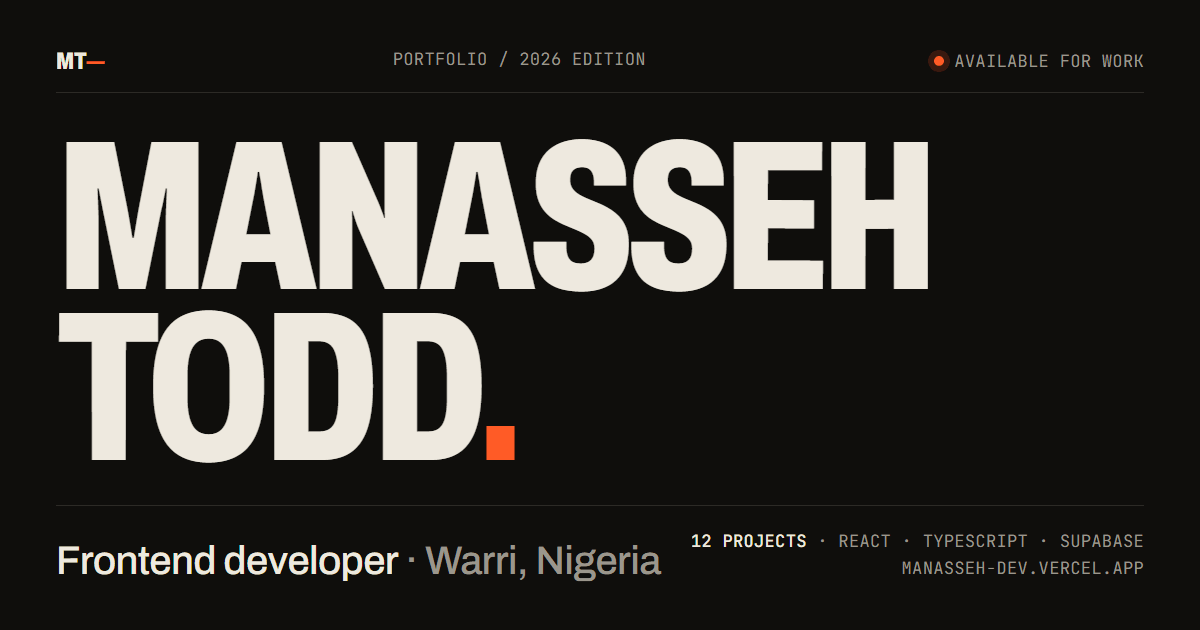
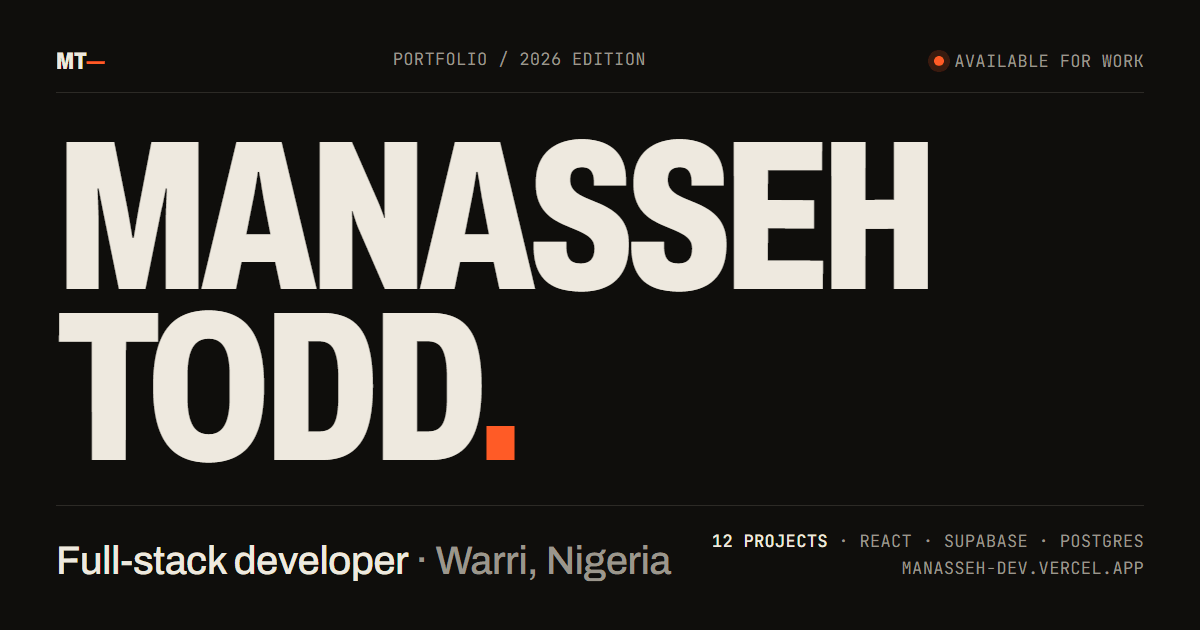
feat: present Manasseh as a full-stack developer
Update the role across page title, meta/OG/Twitter tags, JSON-LD,
hero, About copy and the share image. The hero role label now shows on
mobile too. Past job titles are left as they were held.

Changed region(s): [[0.0617, 0.8444, 0.555, 0.9349], [0.5858, 0.8444, 0.9558, 0.8746]]

diff --git a/index.html b/index.html
@@ -3,8 +3,8 @@
   <head>
     <meta charset="UTF-8" />
     <meta name="viewport" content="width=device-width, initial-scale=1.0" />
-    <title>Manasseh Todd — Frontend Developer, Warri</title>
-    <meta name="description" content="Manasseh Todd is a frontend developer in Warri, Nigeria, building fast, considered websites and web apps with React, TypeScript and Supabase for brands, schools and small businesses." />
+    <title>Manasseh Todd — Full-Stack Developer, Warri</title>
+    <meta name="description" content="Manasseh Todd is a full-stack developer in Warri, Nigeria, building fast, considered websites and web apps with React, TypeScript, Supabase and Postgres for brands, schools and small businesses." />
     <meta name="google-site-verification" content="RRzsAudzfnIZFPQt-_vPojlM1CC2DDcMOwhQgeqvTNI" />
     <meta name="theme-color" content="#0f0e0c" />
     <link rel="icon" type="image/svg+xml" href="/favicon.svg" />
@@ -12,14 +12,14 @@
 
     <meta property="og:type" content="website" />
     <meta property="og:url" content="https://manasseh-dev.vercel.app/" />
-    <meta property="og:title" content="Manasseh Todd — Frontend Developer" />
+    <meta property="og:title" content="Manasseh Todd — Full-Stack Developer" />
     <meta property="og:description" content="An index of selected work: live stores, client sites and full-stack builds, 2025–2026." />
     <meta property="og:image" content="https://manasseh-dev.vercel.app/og-image.png" />
     <meta property="og:image:width" content="1200" />
     <meta property="og:image:height" content="630" />
-    <meta property="og:image:alt" content="Manasseh Todd — Frontend developer in Warri, Nigeria" />
+    <meta property="og:image:alt" content="Manasseh Todd — Full-stack developer in Warri, Nigeria" />
     <meta name="twitter:card" content="summary_large_image" />
-    <meta name="twitter:title" content="Manasseh Todd — Frontend Developer" />
+    <meta name="twitter:title" content="Manasseh Todd — Full-Stack Developer" />
     <meta name="twitter:image" content="https://manasseh-dev.vercel.app/og-image.png" />
 
     <link rel="preconnect" href="https://fonts.googleapis.com" />
@@ -36,7 +36,7 @@
         "@type": "Person",
         "name": "Manasseh Todd",
         "url": "https://manasseh-dev.vercel.app",
-        "jobTitle": "Frontend Developer",
+        "jobTitle": "Full-Stack Developer",
         "address": { "@type": "PostalAddress", "addressLocality": "Warri", "addressCountry": "NG" },
         "sameAs": [
           "https://github.com/manassehtodd",
@@ -49,7 +49,7 @@
     <div id="root"></div>
     <noscript>
       <p style="padding:24px;font-family:sans-serif;color:#eee9df;background:#0f0e0c">
-        Manasseh Todd — frontend developer in Warri, Nigeria. Email
+        Manasseh Todd — full-stack developer in Warri, Nigeria. Email
         <a style="color:#ff5b26" href="mailto:manassehtodd1@gmail.com">manassehtodd1@gmail.com</a>.
       </p>
     </noscript>

diff --git a/src/components/About.jsx b/src/components/About.jsx
@@ -25,16 +25,18 @@ export default function About() {
 
         <div className="about__copy">
           <p className="about__lead">
-            I'm Manasseh, a frontend developer who cares about the parts people actually touch:
-            how fast a page appears, how a button feels and whether checkout works on a cheap
-            Android phone.
+            I'm Manasseh, a full-stack developer who builds the whole thing, but still obsesses
+            over the parts people touch: how fast a page appears, how a button feels and whether
+            checkout works on a cheap Android phone.
           </p>
           <div className="about__body">
             <p>
-              I started with landing pages in 2025. Today I ship live stores, school platforms
-              and sites that clients edit themselves, for businesses across Warri and Port
-              Harcourt. I'm studying software engineering at NIIT, and my work keeps reaching
-              further back: Supabase and Postgres, payments with Paystack, server-side Java.
+              I started with landing pages in 2025. Today I build complete products, covering
+              interface, database, sign-in, payments and admin tools, for businesses across Warri
+              and Port Harcourt: live stores, school platforms and sites that clients run
+              themselves. I work with React and TypeScript on the front, Supabase and Postgres
+              behind it, Paystack and KoraPay for payments, and server-side Java. I'm also
+              studying software engineering at NIIT.
             </p>
             <p>
               I like small teams, clear briefs and leaving code that the next person can read.

diff --git a/src/components/Hero.jsx b/src/components/Hero.jsx
@@ -8,8 +8,8 @@ export default function Hero() {
   return (
     <section className="hero" aria-labelledby="hero-title">
       <div className="hero__meta mono">
-        <span>Portfolio / 2026 edition</span>
-        <span className="hide-sm">Frontend developer</span>
+        <span className="hide-sm">Portfolio / 2026 edition</span>
+        <span>{profile.role}</span>
         <span>{profile.location}</span>
       </div>
 
@@ -26,8 +26,8 @@ export default function Hero() {
 
       <div className="hero__grid">
         <p className="hero__lede">
-          I build fast, considered websites for brands, schools and small businesses, from the
-          first layout to the checkout button.
+          I build fast, considered web apps for brands, schools and small businesses, from the
+          database to the checkout button.
         </p>
 
         <div className="hero__side">
@@ -42,7 +42,7 @@ export default function Hero() {
             </div>
             <div>
               <dt className="mono">Stack</dt>
-              <dd>React · TypeScript · Supabase</dd>
+              <dd>React · Supabase · Postgres</dd>
             </div>
           </dl>
           <div className="hero__actions">

diff --git a/src/data/profile.js b/src/data/profile.js
@@ -1,6 +1,6 @@
 export const profile = {
   name: "Manasseh Todd",
-  role: "Frontend developer",
+  role: "Full-stack developer",
   location: "Warri, Nigeria",
   timeZone: "Africa/Lagos",
   email: "manassehtodd1@gmail.com",
